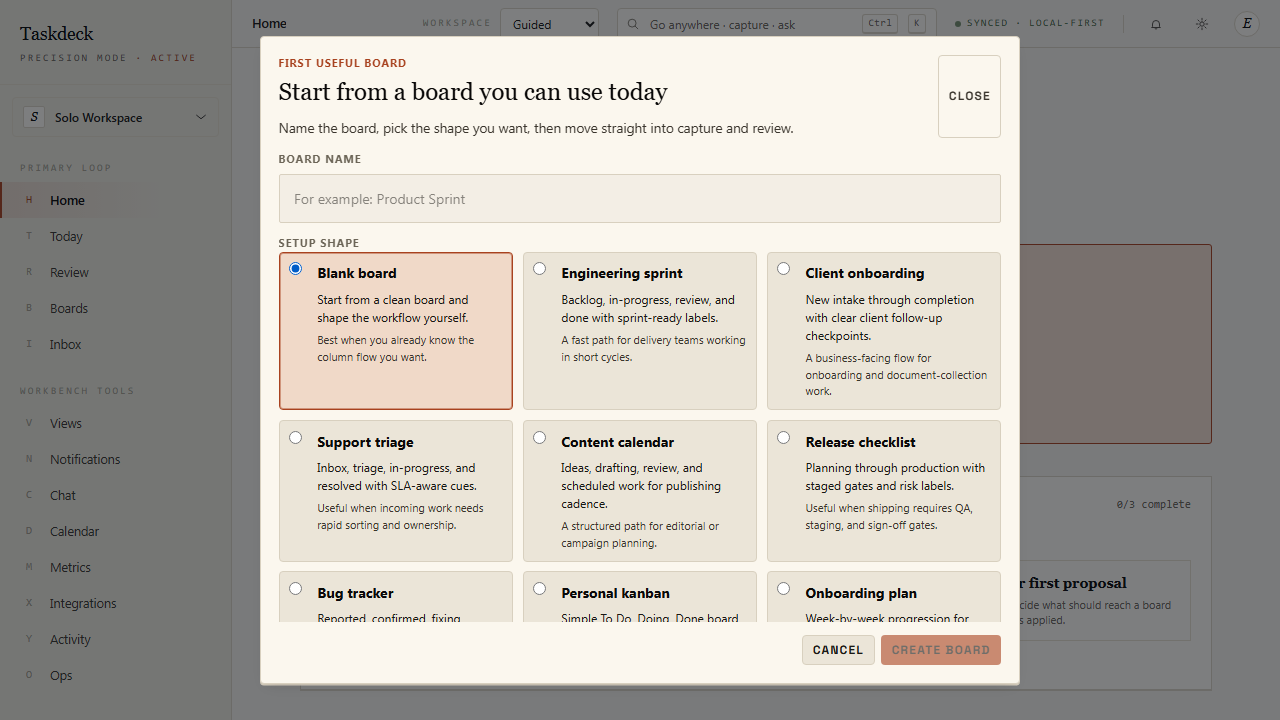
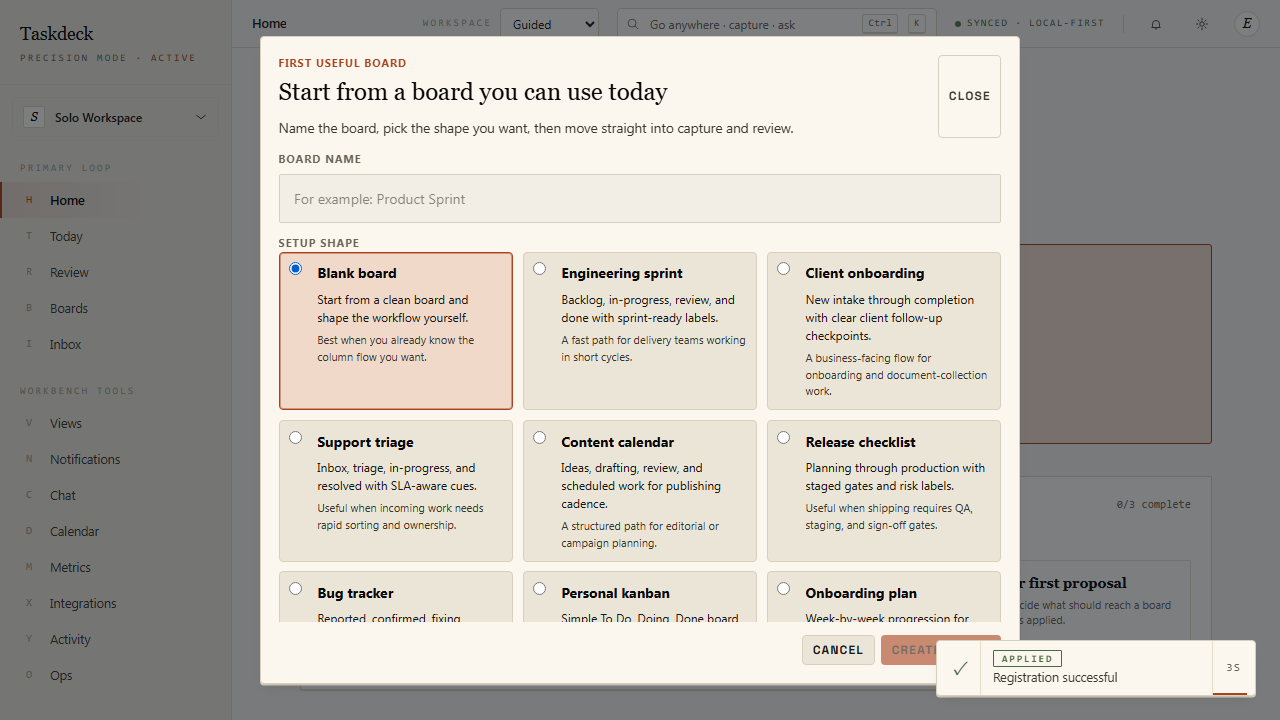
Refresh Paper onboarding browser evidence

Changed region(s): [[0.7188, 0.8861, 1.0, 0.9778]]

diff --git a/docs/product/evidence/revival-05/README.md b/docs/product/evidence/revival-05/README.md
@@ -1,6 +1,6 @@
 # REVIVAL-05 Paper onboarding evidence
 
-Captured from the isolated `paper-onboarding.spec.ts` Playwright journey against a fresh registered user in Paper mode on 2026-07-13.
+Captured from the isolated `paper-onboarding.spec.ts` Playwright journey that starts on Paper Login, registers a fresh user through Paper Register, and continues in Paper mode on 2026-07-13.
 
 ## Guided first board
 
@@ -24,4 +24,4 @@ $env:TASKDECK_E2E_WORKERS='1'
 npx playwright test tests/e2e/paper-onboarding.spec.ts --project=chromium --workers=1 --reporter=line
 ```
 
-Result: 1 passed in 16.0 seconds.
+Result: 1 passed in 14.2 seconds.
